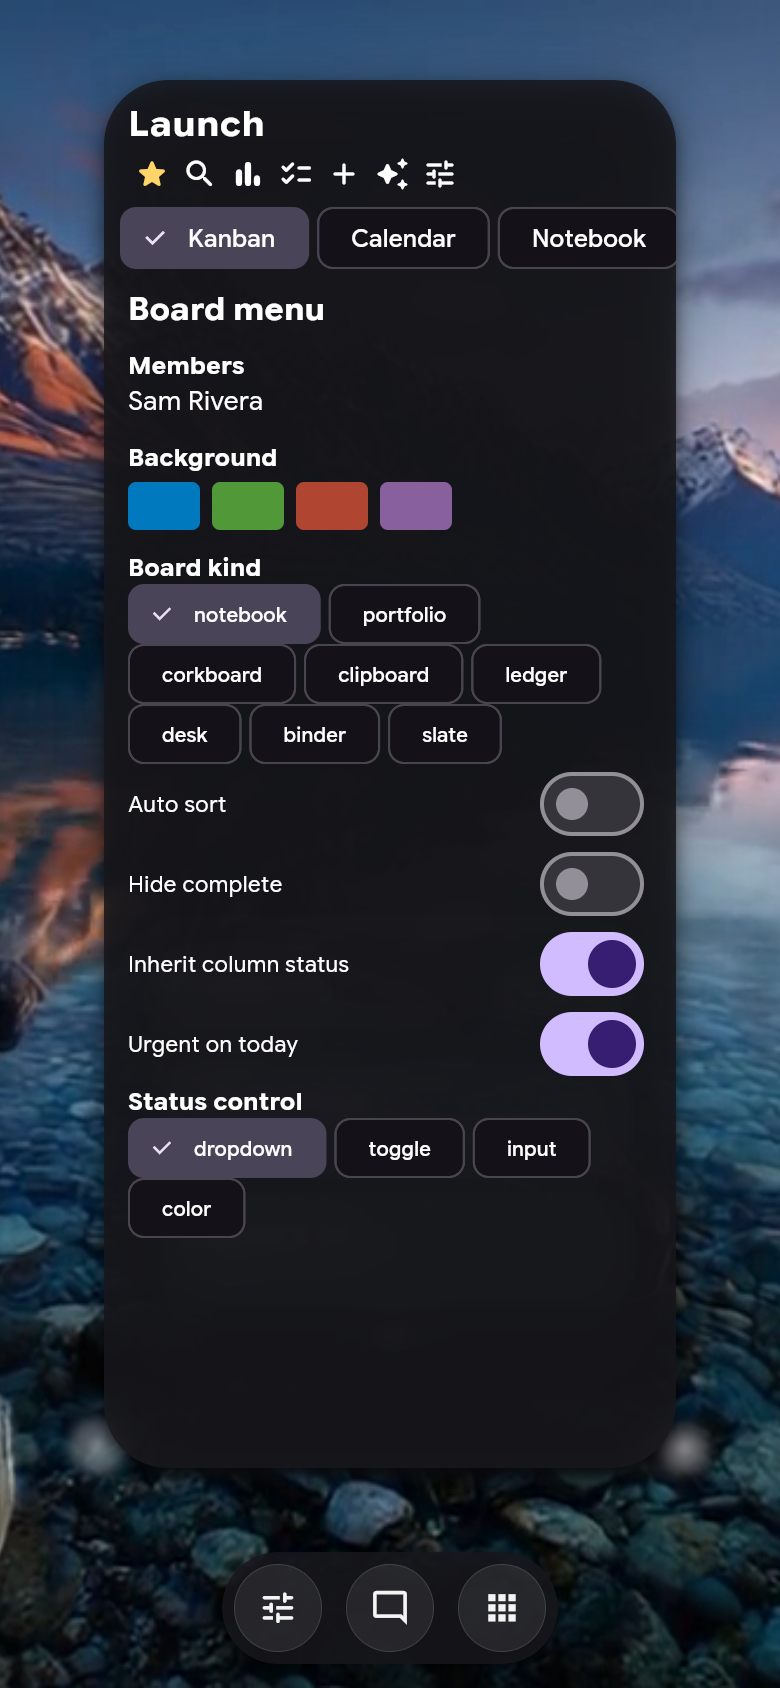
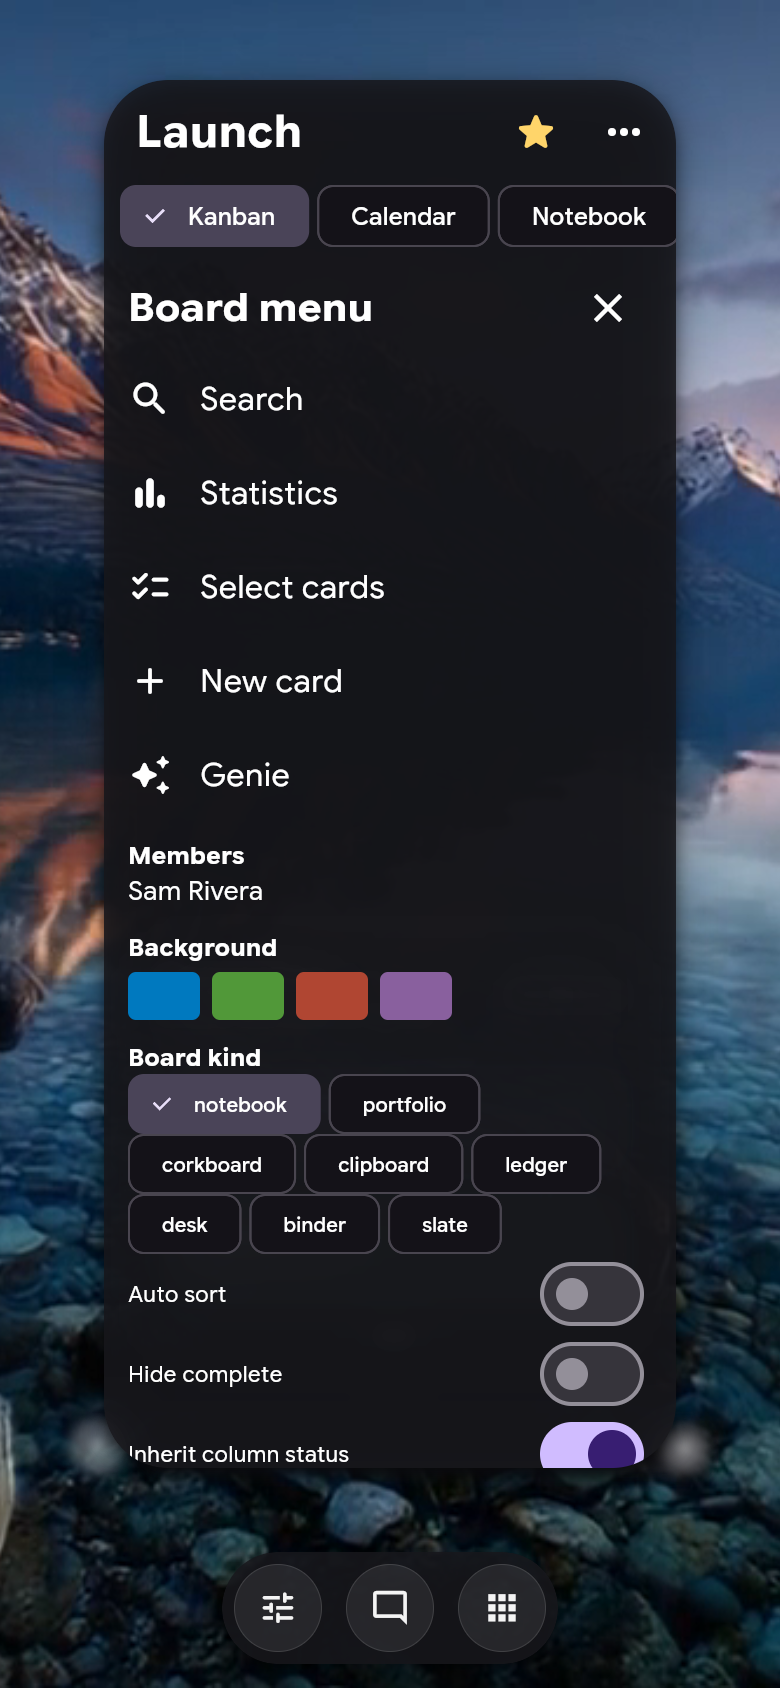
Give the Smart Gen board a Trello title bar and reshoot the editor.
The board bar keeps the name, the star, and a menu for search, statistics, select, new, and Genie. Each list has its own menu and a pinned add-card row. The editor shot is a new capture from this build, with the column control on the first screen.

diff --git a/lib/features/smartgen/sg_pane.dart b/lib/features/smartgen/sg_pane.dart
@@ -131,33 +131,28 @@ class _SgPaneState extends State<SgPane> {
       message: tip,
       child: IconButton(
         onPressed: onTap,
-        icon: Icon(icon, color: color, size: 18),
-        padding: EdgeInsets.zero,
-        visualDensity: VisualDensity.compact,
-        constraints: const BoxConstraints.tightFor(width: 32, height: 32),
+        icon: Icon(icon, color: color, size: 24),
+        padding: const EdgeInsets.all(8),
+        constraints: const BoxConstraints.tightFor(width: 44, height: 44),
       ),
     );
   }
 
+  /// Trello's board bar: the name, one star, and a "…" that holds the rest.
   Widget _header(SgBoard b) {
     return Padding(
-      padding: const EdgeInsets.fromLTRB(12, 8, 4, 0),
-      child: Column(crossAxisAlignment: CrossAxisAlignment.stretch, children: [
-        TextField(
-          controller: TextEditingController(text: b.name),
-          style: appFont(fontSize: 18, fontWeight: FontWeight.w700, color: Colors.white),
-          decoration: const InputDecoration(isCollapsed: true, border: InputBorder.none),
-          onSubmitted: (v) => store.touch(() => b.name = v.trim().isEmpty ? b.name : v.trim()),
+      padding: const EdgeInsets.fromLTRB(16, 4, 4, 0),
+      child: Row(children: [
+        Expanded(
+          child: TextField(
+            controller: TextEditingController(text: b.name),
+            style: appFont(fontSize: 22, fontWeight: FontWeight.w700, color: Colors.white),
+            decoration: const InputDecoration(isCollapsed: true, border: InputBorder.none),
+            onSubmitted: (v) => store.touch(() => b.name = v.trim().isEmpty ? b.name : v.trim()),
+          ),
         ),
-        Row(children: [
-          _icon(b.starred ? 'Unstar board' : 'Star board', b.starred ? Icons.star_rounded : Icons.star_outline_rounded, () => store.touch(() => b.starred = !b.starred), color: const Color(0xFFFFD56A)),
-          _icon('Search', Icons.search_rounded, () => setState(() => _overlay = _overlay == 'search' ? '' : 'search')),
-          _icon('Statistics', Icons.bar_chart_rounded, () => setState(() => _overlay = _overlay == 'stats' ? '' : 'stats')),
-          _icon('Select cards', Icons.checklist_rounded, () => setState(() => _multi = !_multi)),
-          _icon('New card', Icons.add_rounded, () => setState(() => _overlay = 'create')),
-          _icon('Genie', Icons.auto_awesome_rounded, () => setState(() => _overlay = _overlay == 'genie' ? '' : 'genie')),
-          _icon('Board menu', Icons.tune_rounded, () => setState(() => _menu = !_menu)),
-        ]),
+        _icon(b.starred ? 'Unstar board' : 'Star board', b.starred ? Icons.star_rounded : Icons.star_outline_rounded, () => store.touch(() => b.starred = !b.starred), color: const Color(0xFFFFD56A)),
+        _icon('Board menu', Icons.more_horiz, () => setState(() => _menu = !_menu)),
       ]),
     );
   }
@@ -239,7 +234,15 @@ class _SgPaneState extends State<SgPane> {
       child: ListView(
         padding: const EdgeInsets.fromLTRB(12, 4, 12, 24),
         children: [
-          Text('Board menu', style: appFont(fontSize: 16, fontWeight: FontWeight.w700, color: Colors.white)),
+          Row(children: [
+            Expanded(child: Text('Board menu', style: appFont(fontSize: 20, fontWeight: FontWeight.w700, color: Colors.white))),
+            _icon('Close', Icons.close, () => setState(() => _menu = false)),
+          ]),
+          _menuAction(Icons.search_rounded, 'Search', () => setState(() { _menu = false; _overlay = 'search'; })),
+          _menuAction(Icons.bar_chart_rounded, 'Statistics', () => setState(() { _menu = false; _overlay = 'stats'; })),
+          _menuAction(Icons.checklist_rounded, _multi ? 'Stop selecting' : 'Select cards', () => setState(() { _menu = false; _multi = !_multi; })),
+          _menuAction(Icons.add_rounded, 'New card', () => setState(() { _menu = false; _overlay = 'create'; })),
+          _menuAction(Icons.auto_awesome_rounded, 'Genie', () => setState(() { _menu = false; _overlay = 'genie'; })),
           const SizedBox(height: 8),
           Text('Members', style: appFont(fontSize: 12, fontWeight: FontWeight.w700, color: Colors.white)),
           Text(b.guests.join(', '), style: appFont(fontSize: 13, color: Colors.white)),
@@ -277,6 +280,20 @@ class _SgPaneState extends State<SgPane> {
               ChoiceChip(label: Text(k.name, style: appFont(fontSize: 10, color: Colors.white)), selected: b.statusKind == k, onSelected: (_) => store.touch(() => b.statusKind = k)),
           ]),
         ],
+      ),
+    );
+  }
+
+  Widget _menuAction(IconData icon, String label, VoidCallback onTap) {
+    return InkWell(
+      onTap: onTap,
+      child: Padding(
+        padding: const EdgeInsets.symmetric(vertical: 12),
+        child: Row(children: [
+          Icon(icon, color: Colors.white, size: 22),
+          const SizedBox(width: 14),
+          Text(label, style: appFont(fontSize: 16, color: Colors.white)),
+        ]),
       ),
     );
   }
@@ -438,25 +455,16 @@ class _SgPaneState extends State<SgPane> {
     return ScrollConfiguration(
       behavior: const SgScroll(),
       child: ListView(
-        padding: const EdgeInsets.fromLTRB(12, 4, 12, 32),
+        padding: const EdgeInsets.fromLTRB(12, 4, 12, 80),
         children: [
           Row(children: [
             Tooltip(message: 'Back', child: IconButton(onPressed: () => setState(() => _openId = null), icon: const Icon(Icons.arrow_back_rounded, color: Colors.white))),
-            Expanded(child: Text(c.type.label, style: appFont(fontSize: 12, color: Colors.white70))),
+            Expanded(child: Text(c.type.label, style: appFont(fontSize: 16, color: Colors.white))),
             if (c.hasHidden)
               Tooltip(message: 'Hidden fields', child: IconButton(onPressed: () => setState(() => _forceFlip = !_forceFlip), icon: const Icon(Icons.flip_rounded, color: Colors.white))),
           ]),
-          if (_forceFlip) SgFace(card: c, board: b, back: true) else SgFace(card: c, board: b),
+          if (_forceFlip) SgFace(card: c, board: b, back: true),
           _field('Title', c.title, (v) => store.touch(() => c.title = v)),
-          _field('Description', c.description, (v) => store.touch(() => c.description = v), lines: 3),
-          Text('Type', style: appFont(fontSize: 11, color: Colors.white70)),
-          Wrap(spacing: 4, children: [
-            for (final t in SgType.values)
-              ChoiceChip(label: Text(t.label, style: appFont(fontSize: 10, color: Colors.white)), selected: c.type == t, onSelected: (_) => store.touch(() {
-                c.type = t;
-                c.color = t.argb;
-              })),
-          ]),
           _addNew('Column', b.orderedLists.map((l) => l.title).toList(), c.status, (name) {
             final list = b.lists.where((l) => l.title == name).firstOrNull;
             if (list != null) store.moveCard(c.id, list.id);
@@ -466,6 +474,24 @@ class _SgPaneState extends State<SgPane> {
             if (list != null) store.moveCard(c.id, list.id);
           }),
           _statusControl(b, c),
+          _field('Description', c.description, (v) => store.touch(() => c.description = v), lines: 3),
+          Text('Type', style: appFont(fontSize: 11, color: Colors.white70)),
+          SizedBox(
+            height: 40,
+            child: ListView(
+              scrollDirection: Axis.horizontal,
+              children: [
+                for (final t in SgType.values)
+                  Padding(
+                    padding: const EdgeInsets.only(right: 4),
+                    child: ChoiceChip(label: Text(t.label, style: appFont(fontSize: 12, color: Colors.white)), selected: c.type == t, onSelected: (_) => store.touch(() {
+                      c.type = t;
+                      c.color = t.argb;
+                    })),
+                  ),
+              ],
+            ),
+          ),
           _field('Assignee', c.assignee, (v) => store.touch(() => c.assignee = v)),
           _field('Due (ms is set by the clock; type a note)', c.dueMs == null ? '' : DateTime.fromMillisecondsSinceEpoch(c.dueMs!).toIso8601String(), (v) {
             final d = DateTime.tryParse(v);
@@ -697,12 +723,22 @@ class _OptionRowState extends State<_OptionRow> {
     return Padding(
       padding: const EdgeInsets.only(top: 6),
       child: Column(crossAxisAlignment: CrossAxisAlignment.start, children: [
-        Text(widget.label, style: appFont(fontSize: 11, color: Colors.white70)),
+        Text(widget.label, style: appFont(fontSize: 13, fontWeight: FontWeight.w700, color: Colors.white)),
+        const SizedBox(height: 4),
         Wrap(spacing: 4, children: [
           for (final o in widget.options)
-            ChoiceChip(label: Text(o, style: appFont(fontSize: 10, color: Colors.white)), selected: o == widget.current, onSelected: (_) => widget.onPick(o)),
-          ActionChip(label: Text('+ Add new…', style: appFont(fontSize: 10, color: Colors.white)), onPressed: () => setState(() => adding = true)),
+            ChoiceChip(label: Text(o, style: appFont(fontSize: 13, color: Colors.white)), selected: o == widget.current, onSelected: (_) => widget.onPick(o)),
         ]),
+        TextButton(
+          style: TextButton.styleFrom(
+            padding: const EdgeInsets.symmetric(vertical: 10),
+            minimumSize: const Size(double.infinity, 44),
+            alignment: Alignment.centerLeft,
+            tapTargetSize: MaterialTapTargetSize.shrinkWrap,
+          ),
+          onPressed: () => setState(() => adding = true),
+          child: Text('+ Add new…', style: appFont(fontSize: 16, color: Colors.white)),
+        ),
         if (adding)
           TextField(
             controller: t,

diff --git a/lib/features/smartgen/sg_views.dart b/lib/features/smartgen/sg_views.dart
@@ -210,58 +210,10 @@ class SgKanban extends StatelessWidget {
               borderRadius: BorderRadius.circular(12),
               border: Border.all(color: hot ? const Color(0xFF3D7A6A) : const Color(0x14000000), width: hot ? 1.5 : 1),
             ),
-            child: Column(crossAxisAlignment: CrossAxisAlignment.stretch, children: [
-              Padding(
-                padding: const EdgeInsets.fromLTRB(12, 10, 12, 4),
-                child: Text(list.title, style: appFont(fontSize: 16, fontWeight: FontWeight.w700, color: const Color(0xFF1C1B19))),
-              ),
-              Expanded(
-                child: ScrollConfiguration(
-                  behavior: const SgScroll(),
-                  child: ListView(
-                    padding: const EdgeInsets.fromLTRB(8, 0, 8, 8),
-                    children: [
-                      for (final c in cards) _tile(b, c),
-                      TextButton(
-                        onPressed: () {
-                          final made = store.addCard(SgType.task);
-                          if (made != null) {
-                            store.touch(() {
-                              made.listId = list.id;
-                              made.status = list.title;
-                            });
-                            onOpen(made);
-                          }
-                        },
-                        child: Align(alignment: Alignment.centerLeft, child: Text('Add a card', style: appFont(fontSize: 14, color: const Color(0xFF5C564E)))),
-                      ),
-                    ],
-                  ),
-                ),
-              ),
-            ]),
+              child: _KanbanColumn(store: store, board: b, list: list, cards: cards, multi: multi, selected: selected, onOpen: onOpen, onSelect: onSelect),
           ),
         );
       },
-    );
-  }
-
-  Widget _tile(SgBoard b, SgCard c) {
-    final on = selected.contains(c.id);
-    return Padding(
-      padding: const EdgeInsets.only(bottom: 6),
-      child: LongPressDraggable<String>(
-        data: c.id,
-        feedback: SizedBox(width: 150, child: Transform.scale(scale: 1.04, child: SgFace(card: c, board: b, compact: true))),
-        childWhenDragging: Opacity(opacity: 0.35, child: SgFace(card: c, board: b, compact: true)),
-        child: GestureDetector(
-          onTap: () => multi ? onSelect?.call(c) : onOpen(c),
-          child: DecoratedBox(
-            decoration: BoxDecoration(borderRadius: BorderRadius.circular(12), border: Border.all(color: on ? Colors.white : Colors.transparent, width: 1.5)),
-            child: SgFlip(card: c, board: b, compact: true),
-          ),
-        ),
-      ),
     );
   }
 
@@ -273,6 +225,99 @@ class SgKanban extends StatelessWidget {
         child: TextButton(
           onPressed: () => store.addList('List ${store.board!.lists.length + 1}'),
           child: Text('Add a list', style: appFont(fontSize: 15, fontWeight: FontWeight.w600, color: Colors.white)),
+        ),
+      ),
+    );
+  }
+}
+
+/// One Trello list: a title with "…", the cards, and a pinned "+ Add a card".
+class _KanbanColumn extends StatefulWidget {
+  const _KanbanColumn({required this.store, required this.board, required this.list, required this.cards, required this.multi, required this.selected, required this.onOpen, required this.onSelect});
+  final SgStore store;
+  final SgBoard board;
+  final SgList list;
+  final List<SgCard> cards;
+  final bool multi;
+  final Set<String> selected;
+  final void Function(SgCard) onOpen;
+  final void Function(SgCard)? onSelect;
+  @override
+  State<_KanbanColumn> createState() => _KanbanColumnState();
+}
+
+class _KanbanColumnState extends State<_KanbanColumn> {
+  bool _menu = false;
+
+  void _add() {
+    final made = widget.store.addCard(SgType.task);
+    if (made == null) return;
+    widget.store.touch(() {
+      made.listId = widget.list.id;
+      made.status = widget.list.title;
+    });
+    setState(() => _menu = false);
+    widget.onOpen(made);
+  }
+
+  @override
+  Widget build(BuildContext context) {
+    const ink = Color(0xFF1C1B19);
+    return Column(crossAxisAlignment: CrossAxisAlignment.stretch, children: [
+      Padding(
+        padding: const EdgeInsets.fromLTRB(12, 4, 0, 0),
+        child: Row(children: [
+          Expanded(child: Text(widget.list.title, style: appFont(fontSize: 17, fontWeight: FontWeight.w700, color: ink))),
+          IconButton(
+            tooltip: 'List menu',
+            onPressed: () => setState(() => _menu = !_menu),
+            icon: const Icon(Icons.more_horiz, color: ink, size: 22),
+          ),
+        ]),
+      ),
+      if (_menu)
+        Padding(
+          padding: const EdgeInsets.fromLTRB(8, 0, 8, 4),
+          child: TextButton(
+            style: TextButton.styleFrom(alignment: Alignment.centerLeft, minimumSize: const Size(double.infinity, 40)),
+            onPressed: _add,
+            child: Text('Add a card', style: appFont(fontSize: 15, color: ink)),
+          ),
+        ),
+      Expanded(
+        child: ScrollConfiguration(
+          behavior: const SgScroll(),
+          child: ListView(
+            padding: const EdgeInsets.fromLTRB(8, 0, 8, 8),
+            children: [for (final c in widget.cards) _tile(c)],
+          ),
+        ),
+      ),
+      Padding(
+        padding: const EdgeInsets.fromLTRB(8, 0, 8, 4),
+        child: TextButton(
+          style: TextButton.styleFrom(alignment: Alignment.centerLeft, minimumSize: const Size(double.infinity, 44)),
+          onPressed: _add,
+          child: Text('+ Add a card', style: appFont(fontSize: 16, color: const Color(0xFF5C564E))),
+        ),
+      ),
+    ]);
+  }
+
+  Widget _tile(SgCard c) {
+    final on = widget.selected.contains(c.id);
+    return Padding(
+      padding: const EdgeInsets.only(bottom: 6),
+      child: LongPressDraggable<String>(
+        data: c.id,
+        feedback: SizedBox(width: 150, child: Transform.scale(scale: 1.04, child: SgFace(card: c, board: widget.board, compact: true))),
+        childWhenDragging: Opacity(opacity: 0.35, child: SgFace(card: c, board: widget.board, compact: true)),
+        child: GestureDetector(
+          onTap: () => widget.multi ? widget.onSelect?.call(c) : widget.onOpen(c),
+          child: DecoratedBox(
+            decoration: BoxDecoration(borderRadius: BorderRadius.circular(12), border: Border.all(color: on ? Colors.white : Colors.transparent, width: 1.5)),
+            child: SgFlip(card: c, board: widget.board, compact: true),
+          ),
         ),
       ),
     );

diff --git a/docs/SMART-GEN-PARITY.md b/docs/SMART-GEN-PARITY.md
@@ -1,6 +1,6 @@
 # Smart Gen parity
 
-The pane is the shared centred glass window from `collider-latest-wip` at `435e06f` (`lib/core/vision/cpane.dart`). It is not full width. The side rail is hidden while Smart Gen is open, because on a phone that rail covers the left edge of the centred pane. Cards, canvases, boards and Genie sit inside the pane. Scrollbars are hidden. Card fronts rest with no flip transform (`before-mirror.png` is the rejected mirrored board; `r01-kanban.png` is the upright board). One list fills the pane and the next list is a horizontal scroll away (`r01-doing.png`). The overdue notice floats and dismisses; it is not in the resting shots. Notebook pages turn with a binding and page dots. A calendar day shows the card title. Field types, board kinds, hold kinds, and hooks are the ones in David's clone.
+The pane is the shared centred glass window from `collider-latest-wip` at `435e06f` (`lib/core/vision/cpane.dart`), the same `CPane` and `VFrost` recipe Settings uses. It is not full width. The board bar is the name, a star, and a "…" menu. Search, statistics, select, new and Genie live in that menu. Each list has its own header with "…" and a pinned "+ Add a card" row. The side rail is hidden while Smart Gen is open, because on a phone that rail covers the left edge of the centred pane. Cards, canvases, boards and Genie sit inside the pane. Scrollbars are hidden. Card fronts rest with no flip transform (`before-mirror.png` is the rejected mirrored board; `r01-kanban.png` is the upright board). One list fills the pane and the next list is a horizontal scroll away (`r01-doing.png`). The overdue notice floats and dismisses; it is not in the resting shots. Notebook pages turn with a binding and page dots. A calendar day shows the card title. Field types, board kinds, hold kinds, and hooks are the ones in David's clone.
 
 The attached `smart-gen-trello-clone.tar.gz` was not on disk. The public `Davidebri1/trello-clone` tree is the unmodified 0l1v3rr schema (boards, lists, cards, labels, a description string, an empty Activity stub, guests, stars, a color or image background). The Smart Gen behaviour past that schema is taken from the three binding specs: `spec-unformatted.txt` section 9, `summary.txt`, and `SMART_GEN_REQUIREMENTS.md` R1–R25. `smart-gen-ui.md` was not used.
 
@@ -34,7 +34,7 @@ Photos are 390×844 phone captures under `docs/branch-review/smartgen/`. A start
 | R5 | Pass | The memory card's back shows the private note. `r05-flip.png` |
 | R6 | Pass | Urgent cards with a due time show a ticking `HH:MM:SS` clock; past due reads OVERDUE. `r01-kanban.png`, `r24-desk.png` |
 | R7 | Pass | Opening the board toasts the overdue urgent card. A card due inside an hour toasts once. `r24-desk.png` |
-| R8 | Pass | Search, statistics, select, new, Genie, board menu, flip, calendar arrows and close use `Tooltip` (hover, and long-press on a phone). `r01-kanban.png` |
+| R8 | Pass | The title bar keeps the star and the "…" board menu. Search, statistics, select, new and Genie are rows in that menu. Flip, calendar arrows and close use `Tooltip`. `r01-kanban.png`, `r11-menu.png` |
 | R9a | Pass | Kanban columns and a highlighted drop target. `r01-kanban.png` |
 | R9b | Pass | October 2026 month grid. A due card is a title chip on its day. `r09-calendar.png` |
 | R9c | Pass | Trip notes is a bound page you swipe, split on `---`, with a page dot for the open page. `r09-notebook.png` |
